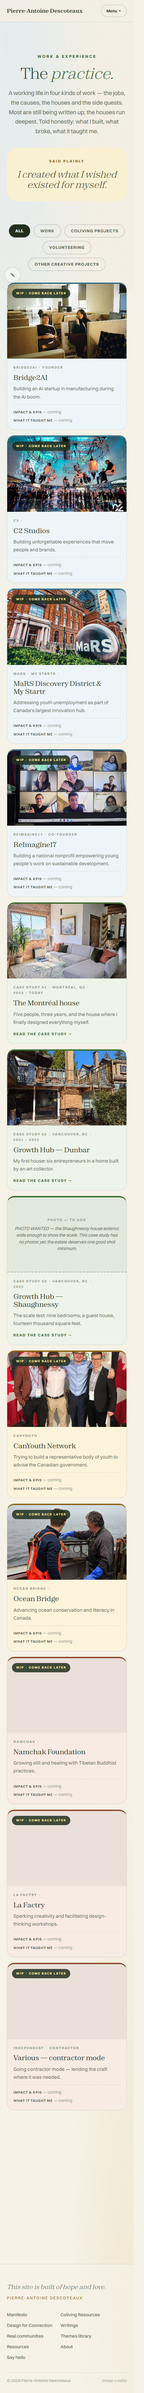
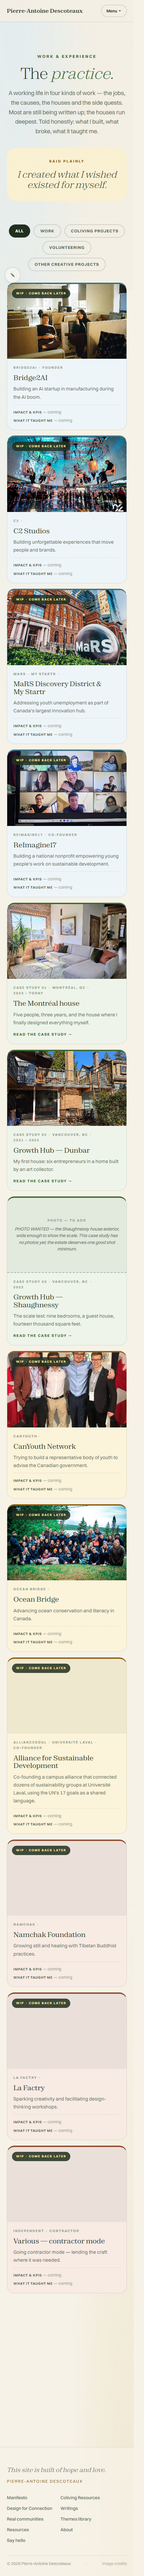
Story page: wire real photos + juxtapositions
Finishes the story-photo task (agent had implemented it before a session-limit
cut it off; verified + completing here).
- 20 curated photos copied to images/story/ from P-A's Story folder.
- 8 chapters wired in about-data.js; story.html renders a juxtaposition
  (slotJuxta) when a chapter has an images[] array, else a single image.
- Juxtapositions (4): facilitator, scale, houses, rooms-that-move.
- Single photo: coach, first-company, hard-chapter, now.
- Placeholders remain (as P-A asked): stone-house, school-president, tokyo.
- gitignore P-A's raw "Photos of different projects" source dump.
- QA _qa/shoot-story.js: 4 juxtas (16 imgs), single chapters, 3 placeholders,
  0 broken images (desktop+mobile), 0 page errors.

Claude-Session: https://claude.ai/code/session_011HzeoFsZWP86f8imnze8Em

diff --git a/about-data.js b/about-data.js
@@ -179,8 +179,8 @@ const STORY2_TEXTURE = {
   items: [
     { slug: "stone-house", years: "Age 5", line: "I stacked a playhouse out of stone bricks — twice my height, zero permits — and invited the neighbourhood in. I've been told the career plan hasn't changed much since.", image: { scene: "PHOTO WANTED — childhood: building something or playing outside. Grainy family photo is perfect." } },
     { slug: "organizer", years: "School years", line: "I was the kid who organized things. Class rep, school president in sixth grade, eventually 'organizer of the year' — mostly because nobody else wanted to run the student radio AND the dance AND the fair.", image: { scene: "PHOTO WANTED — school-years P-A mid-organizing: on stage, at the radio, with a team." } },
-    { slug: "coach", years: "16 – 20", line: "I coached improv teams and tennis players, kids and adults. Someone was paying me to care about other people's progress. I couldn't believe my luck.", image: { scene: "PHOTO WANTED — coaching era: improv team or on court with students." } },
-    { slug: "first-company", years: "19", line: "I started a little accessories company between classes. It taught me every job at once — including the humbling ones, like selling face to face and doing my own books.", image: { scene: "PHOTO WANTED — Sway Accessories era: product, market stand, or a case-competition podium." } }
+    { slug: "coach", years: "16 – 20", line: "I coached improv teams and tennis players, kids and adults. Someone was paying me to care about other people's progress. I couldn't believe my luck.", image: { src: "images/story/story-coach-1.jpg", scene: "Coaching improv and tennis." } },
+    { slug: "first-company", years: "19", line: "I started a little accessories company between classes. It taught me every job at once — including the humbling ones, like selling face to face and doing my own books.", image: { src: "images/story/story-first-company-1.jpg", scene: "The Sway Accessories years." } }
   ]
 };
 
@@ -196,7 +196,7 @@ const STORY2_CHAPTERS = [
       "Nobody was in charge, and that was the discovery. Most spaces don't need another leader — they need someone who holds the room so everyone else can lead. I finally had a name for the thing I'd been doing since the stone house. [edit]"
     ],
     stayed: "Map the players, build the common language, host the room.",
-    image: { scene: "PHOTO WANTED — an Alliance event at ULaval: a room of students mid-workshop, or P-A facilitating." }
+    images: [ { src: "images/story/story-facilitator-1.jpg" }, { src: "images/story/story-facilitator-2.jpg" }, { src: "images/story/story-facilitator-3.jpg" }, { src: "images/story/story-facilitator-4.jpg" } ]
   },
   {
     slug: "scale",
@@ -208,7 +208,7 @@ const STORY2_CHAPTERS = [
       "Here's the part I'm actually proud of. We built a culture where everyone led something and backed everyone else's something. I stepped away for two years, came back to visit — and it was all still running. Better than when I left, in places. Nothing has taught me more about what building actually means. [edit]"
     ],
     stayed: "A community is working when it no longer needs you.",
-    image: { scene: "PHOTO WANTED — UN HLPF 2019 delegate shot, or a ReImagine17 team retreat — people, not logos." }
+    images: [ { src: "images/story/story-scale-1.jpg" }, { src: "images/story/story-scale-2.jpg" }, { src: "images/story/story-scale-3.jpg" }, { src: "images/story/story-scale-4.jpg" } ]
   },
   {
     slug: "houses",
@@ -220,7 +220,7 @@ const STORY2_CHAPTERS = [
       "Along the way I made most of the mistakes available on the market: wrong roommate calls, fuzzy house rules, a common room that was beautiful and completely dead until I understood why. But the heart of it was always simple — I created what I wished existed for myself, and let it teach me. The case studies on this site are those field notes. [edit]"
     ],
     stayed: "Create what you wish existed — then let it teach you.",
-    image: { src: "images/mtl-living-room.jpg", scene: "The Montréal house living room — the interior P-A designed." }
+    images: [ { src: "images/story/story-houses-1.jpg" }, { src: "images/story/story-houses-2.jpg" }, { src: "images/story/story-houses-3.jpg" }, { src: "images/story/story-houses-4.jpg" }, { src: "images/story/story-houses-5.jpg" } ]
   },
   {
     slug: "rooms-that-move",
@@ -232,7 +232,7 @@ const STORY2_CHAPTERS = [
       "That's the strange gift of those years: I went for the craft, and left with a trained eye. [edit]"
     ],
     stayed: "Space is a tool you can aim.",
-    image: { scene: "PHOTO WANTED — a C2 event floor shot (the immersive staging), ideally with P-A in it." }
+    images: [ { src: "images/story/story-rooms-1.jpg" }, { src: "images/story/story-rooms-2.jpg" }, { src: "images/story/story-rooms-3.jpg" } ]
   },
   {
     slug: "hard-chapter",
@@ -244,7 +244,7 @@ const STORY2_CHAPTERS = [
       "Somewhere in those months I noticed which parts of my week I protected no matter what. They all looked like the house. [edit]"
     ],
     stayed: "I can build the machine. I'd rather build the village.",
-    image: { scene: "PHOTO WANTED — startup era: late-night office, the SF trip, or a whiteboard of scheduling diagrams. Honest > polished." }
+    image: { src: "images/story/story-hard-1.jpg", scene: "The startup years." }
   },
   {
     slug: "now",
@@ -256,7 +256,7 @@ const STORY2_CHAPTERS = [
       "This site is my workshop for that. If you're building a place where people grow because of each other, I'd love to learn alongside you and help build it. [edit]"
     ],
     stayed: "Community as the antidote to isolation — space as the tool that makes it stick.",
-    image: { scene: "PHOTO WANTED — recent: hiking / trail running, or hosting a dinner at the Montréal house. Warm light." }
+    image: { src: "images/story/story-now-1.jpg", scene: "The beginning of a new path." }
   }
 ];
 

diff --git a/_qa/shoot-story.js b/_qa/shoot-story.js
@@ -1,0 +1,30 @@
+const { chromium } = require("playwright-core");
+const path = require("path");
+const root = "file:///C:/Users/User/coliving-portfolio/";
+(async () => {
+  const b = await chromium.launch({ executablePath: "C:\\Program Files\\Google\\Chrome\\Application\\chrome.exe", headless: true });
+  const p = await b.newPage({ viewport: { width: 1440, height: 950 } });
+  const errs = [];
+  p.on("pageerror", e => errs.push("PAGEERROR: " + e.message));
+  await p.goto(root + "story.html", { waitUntil: "networkidle" });
+  await p.evaluate(async () => { const h = document.body.scrollHeight; for (let y = 0; y <= h; y += 500) { window.scrollTo(0, y); await new Promise(r => setTimeout(r, 50)); } window.scrollTo(0, 0); });
+  await p.waitForTimeout(700);
+  const r = await p.evaluate(() => ({
+    juxtas: document.querySelectorAll(".juxta").length,
+    juxtaImgs: document.querySelectorAll(".juxta img").length,
+    chapImgs: document.querySelectorAll(".chap-img img").length,
+    placeholders: document.querySelectorAll(".ph, .v-ph").length,
+    broken: [...document.querySelectorAll("img")].filter(i => i.complete && i.naturalWidth === 0).map(i => i.getAttribute("src")),
+  }));
+  await p.screenshot({ path: path.join(__dirname, "story-full.png"), fullPage: true });
+  console.log("juxtas:", r.juxtas, "| juxta imgs:", r.juxtaImgs, "| single chap imgs:", r.chapImgs, "| placeholders left:", r.placeholders);
+  console.log("broken:", JSON.stringify(r.broken));
+  // mobile
+  await p.setViewportSize({ width: 390, height: 844 });
+  await p.goto(root + "story.html", { waitUntil: "networkidle" });
+  await p.waitForTimeout(500);
+  const mb = await p.evaluate(() => [...document.querySelectorAll("img")].filter(i => i.complete && i.naturalWidth === 0).length);
+  console.log("mobile broken:", mb);
+  console.log(errs.length ? "ERRORS: " + errs.join("; ") : "no page errors: YES");
+  await b.close();
+})();

diff --git a/story.html b/story.html
@@ -88,6 +88,10 @@ button{font:inherit;color:inherit;background:none;border:none;cursor:pointer}
   margin-bottom:clamp(70px,11vh,130px);
   scroll-margin-top:90px;
 }
+.juxta{display:grid;grid-template-columns:1fr 1fr;gap:8px}
+.juxta img{width:100%;height:100%;object-fit:cover;border-radius:14px;box-shadow:0 12px 28px -18px rgba(34,48,31,.5);display:block}
+.juxta img:first-child{grid-column:1/-1;aspect-ratio:16/10}
+.juxta img:not(:first-child){aspect-ratio:1/1}
 .chap.img-right{grid-template-columns:1fr 44%}
 .chap.img-right .chap-img{order:2}
 .chap.img-right .chap-text a{color:var(--green-deep);text-decoration:underline;text-underline-offset:3px;text-decoration-thickness:1px}
@@ -204,6 +208,12 @@ button{font:inherit;color:inherit;background:none;border:none;cursor:pointer}
       '<p class="ph-scene">'+esc(img&&img.scene||"")+'</p>'+
     '</div>';
   }
+  // juxtaposition of 2-5 photos (chapters)
+  function slotJuxta(imgs){
+    return '<div class="juxta juxta-'+imgs.length+'">'+imgs.map(function(im){
+      return '<img src="'+esc(im.src)+'" alt="'+esc(im.scene||"")+'" loading="lazy">';
+    }).join("")+'</div>';
+  }
   // compact slot (vignettes + interlude)
   function slotCompact(img,imgClass){
     if(img&&img.src){
@@ -252,7 +262,7 @@ button{font:inherit;color:inherit;background:none;border:none;cursor:pointer}
     var storyHtml = ch.story.map(function(p){ return '<p>'+esc(noEdit(p))+'</p>'; }).join("");
     chapHtml +=
       '<section class="'+cls+'" id="'+esc(ch.slug)+'">'+
-        '<div class="chap-img">'+slot(ch.image)+'</div>'+
+        '<div class="chap-img">'+(ch.images&&ch.images.length?slotJuxta(ch.images):slot(ch.image))+'</div>'+
         '<div class="chap-text">'+
           '<div class="chap-ghost">No. '+num+'</div>'+
           '<span class="chap-kicker">'+esc(ch.years)+'</span>'+
